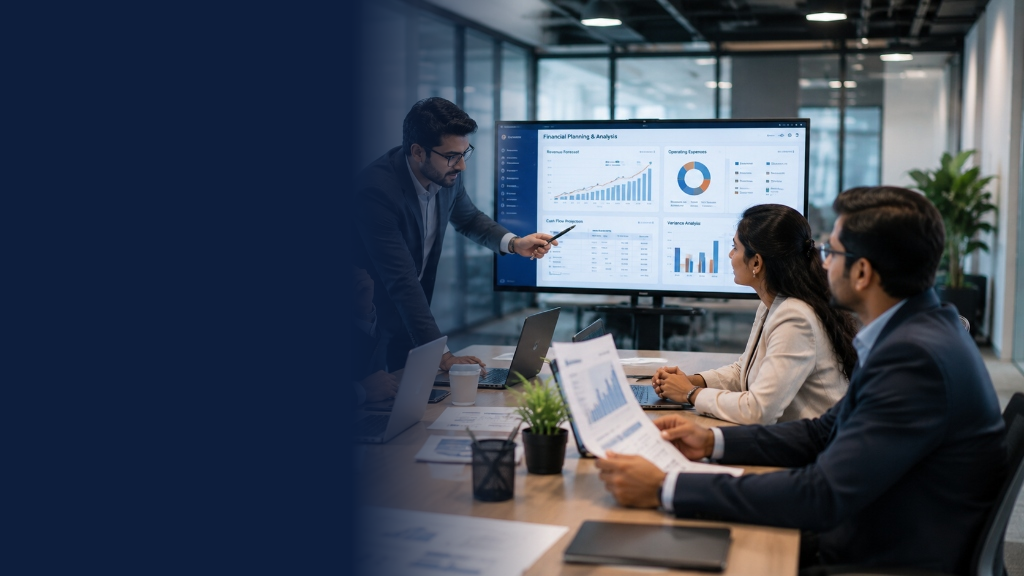
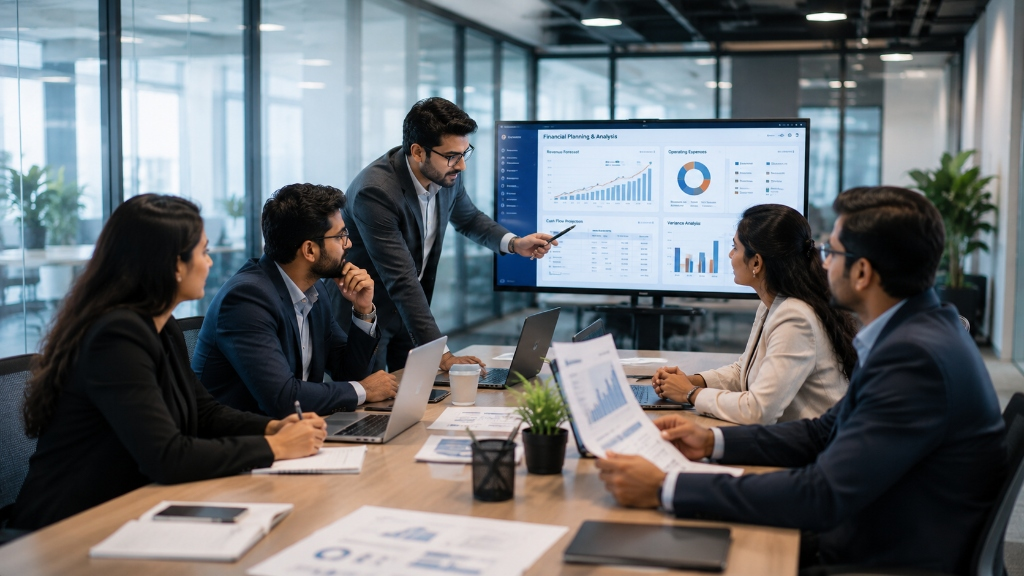
feat: Show hero background photographs in full color by fading gradient overlays to transparent on the right

diff --git a/src/index.css b/src/index.css
@@ -6999,6 +6999,17 @@ body {
   align-items: center;
 }
 
+.impl-hero::before {
+  content: "";
+  position: absolute;
+  top: 0;
+  left: 0;
+  right: 0;
+  bottom: 0;
+  background: linear-gradient(90deg, #0d1e3d 30%, rgba(13, 30, 61, 0.6) 60%, rgba(13, 30, 61, 0) 100%);
+  z-index: 1;
+}
+
 .impl-hero__container {
   display: flex;
   flex-direction: column;
@@ -7006,6 +7017,8 @@ body {
   margin: 0 auto;
   width: 100%;
   padding: 0 4%;
+  position: relative;
+  z-index: 2;
 }
 
 .impl-hero__left {
@@ -7731,7 +7744,7 @@ body {
   left: 0;
   right: 0;
   bottom: 0;
-  background: linear-gradient(90deg, #0d1e3d 40%, rgba(13, 30, 61, 0.4) 100%);
+  background: linear-gradient(90deg, #0d1e3d 30%, rgba(13, 30, 61, 0.6) 60%, rgba(13, 30, 61, 0) 100%);
   z-index: 1;
 }
 

diff --git a/dist/index.html b/dist/index.html
@@ -12,8 +12,8 @@
       href="https://fonts.googleapis.com/css2?family=Plus+Jakarta+Sans:wght@400;500;600;700;800&family=Syne:wght@600;700;800&display=swap"
       rel="stylesheet"
     />
-    <script type="module" crossorigin src="/assets/index-V6pmugis.js"></script>
-    <link rel="stylesheet" crossorigin href="/assets/index-BEWDzkIs.css">
+    <script type="module" crossorigin src="/assets/index-nwhjA1CQ.js"></script>
+    <link rel="stylesheet" crossorigin href="/assets/index-DvdZAQJK.css">
   </head>
   <body>
     <div id="root"></div>
